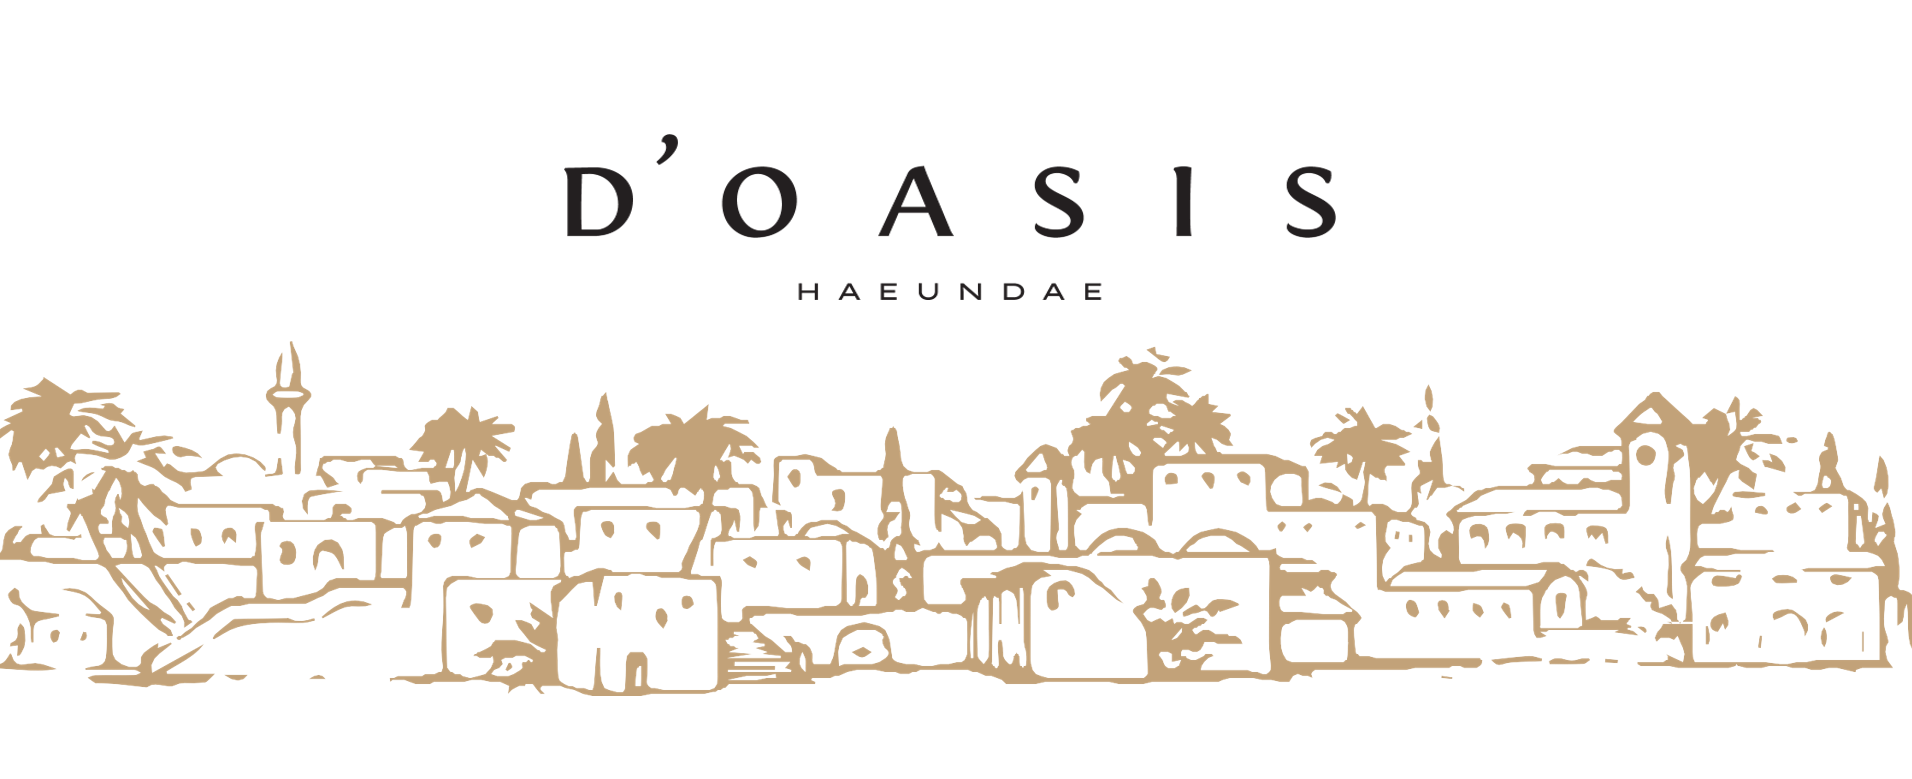
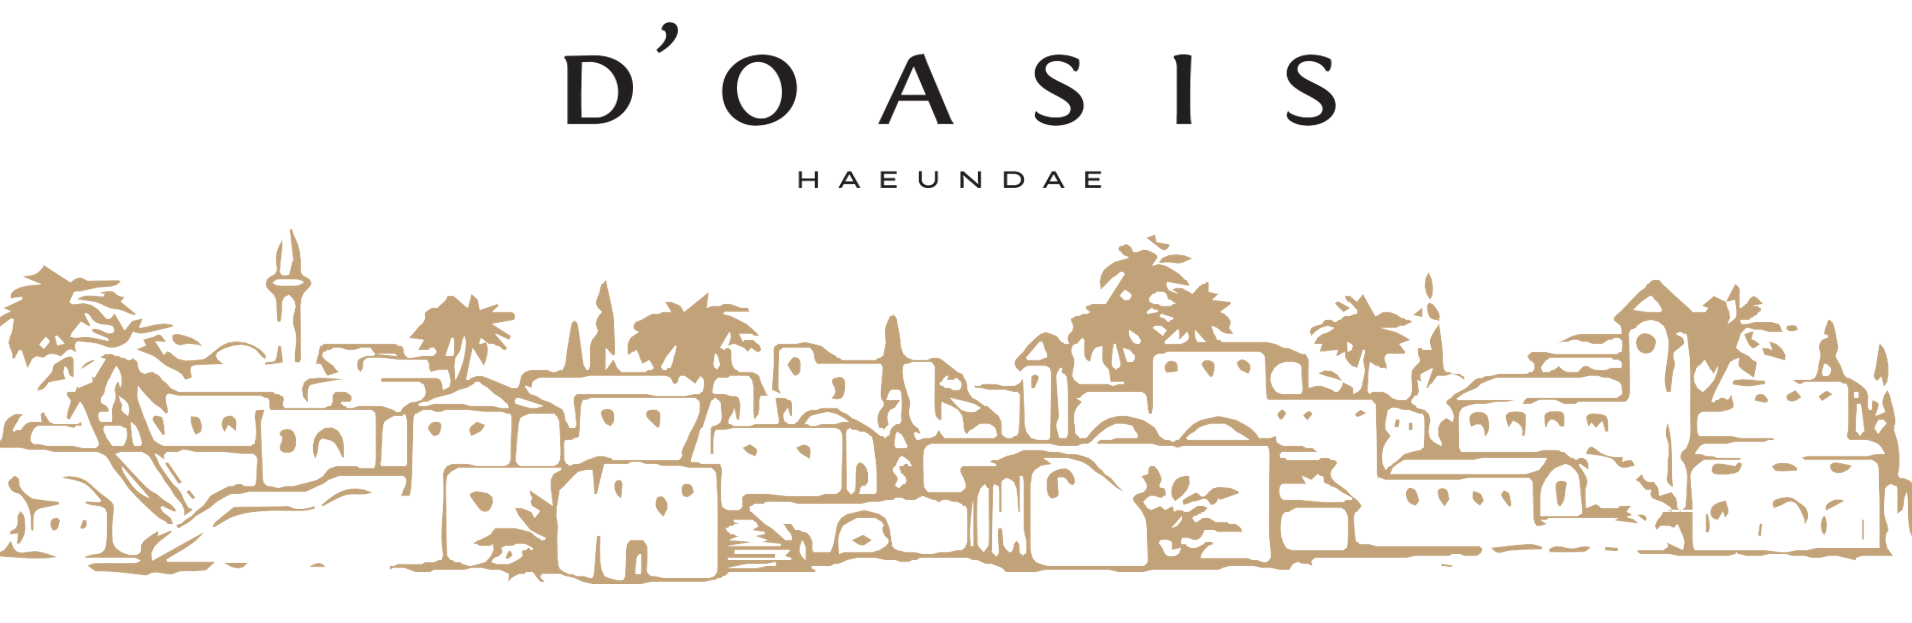
메인화면작업중

diff --git a/src/main/webapp/css/style.css b/src/main/webapp/css/style.css
@@ -41,7 +41,7 @@
 
 
 body {
-  font-family:'S-Core','Montserrat', 'Noto Sans KR', 'Noto Sans Korean', Malgun Gothic, "맑은고딕", arial, sans-serif;
+  font-family:'Montserrat','S-Core', 'Noto Sans KR', 'Noto Sans Korean', Malgun Gothic, "맑은고딕", arial, sans-serif;
   color: #555555;
 }
 .bold{font-weight:bold}
@@ -906,7 +906,7 @@ ul.nav.nav-pills-a{border-bottom:2px solid #d7d7d7}
 }
 .intro .carousel-item-a {
   position: relative;
-  height: 90vh;
+  height: 98vh;
 }/*메인화면 이미지 크기*/
  
 
@@ -1020,9 +1020,9 @@ ul.nav.nav-pills-a{border-bottom:2px solid #d7d7d7}
 
 @media (min-width: 992px) {
   .intro .intro-title {
-    font-size: 3.2rem;text-shadow: 1px 1px 1px #222;
+    font-size: 3.8rem;text-shadow: 1px 1px 1px #222;
     word-break: keep-all;
-      text-align:center
+      text-align:center;letter-spacing: -3px;
   }
 }
 
@@ -2568,7 +2568,7 @@ figure { margin: 0; }
     width: 100%;
     display: flex;
     padding: 22px 40px 22px 40px;
-    margin-top: 200px; }
+    margin-top: 15rem; }
   
 .container_date {
   width: 960px;
@@ -2721,8 +2721,150 @@ label {
 
 
 
+ /*파도*/ 
+.ocean { 
+  height: 5%;
+  width:100%;
+  position:absolute;
+  bottom:0;
+  left:0;
+  background: #015871;
+  z-index:999;
+}
+
+.wave {
+  background: url(https://s3-us-west-2.amazonaws.com/s.cdpn.io/85486/wave.svg) repeat-x; 
+  position: absolute;
+  top: -198px;
+  width: 6400px;
+  height: 198px;
+  animation: wave 7s cubic-bezier( 0.36, 0.45, 0.63, 0.53) infinite;
+  transform: translate3d(0, 0, 0);
+}
+
+.wave:nth-of-type(2) {
+  top: -175px;
+  animation: wave 7s cubic-bezier( 0.36, 0.45, 0.63, 0.53) -.125s infinite, swell 7s ease -1.25s infinite;
+  opacity: 1;
+}
+
+@keyframes wave {
+  0% {
+    margin-left: 0;
+  }
+  100% {
+    margin-left: -1600px;
+  }
+}
+
+@keyframes swell {
+  0%, 100% {
+    transform: translate3d(0,-25px,0);
+  }
+  50% {
+    transform: translate3d(0,5px,0);
+  }
+}
 
 
+
+
+
+
+
+
+
+@import url(//fonts.googleapis.com/css?family=Lato:300:400);
+
+
+.header_wave {
+  position:relative;
+  text-align:center;
+  color:white;
+}
+.logo {
+  width:50px;
+  fill:white;
+  padding-right:15px;
+  display:inline-block;
+  vertical-align: middle;
+}
+
+.inner-header {
+  height:65vh;
+  width:100%;
+  margin: 0;
+  padding: 0;
+}
+
+.flex { /*Flexbox for containers*/
+  display: flex;
+  justify-content: center;
+  align-items: center;
+  text-align: center;
+}
+
+.waves {
+  position:relative;
+  width: 100%;
+  height:15vh;
+  margin-bottom:-7px; /*Fix for safari gap*/
+  min-height:100px;
+  max-height:150px;
+/*       width: 1920px; */
+    z-index: 99999;
+    top: -54px;
+}
+
+.content {
+  position:relative;
+  height:20vh;
+  text-align:center;
+  background-color: white;
+}
+
+/* Animation */
+
+.parallax > use {
+  animation: move-forever 25s cubic-bezier(.55,.5,.45,.5)     infinite;
+}
+.parallax > use:nth-child(1) {
+  animation-delay: -2s;
+  animation-duration: 7s;
+}
+.parallax > use:nth-child(2) {
+  animation-delay: -3s;
+  animation-duration: 10s;
+}
+.parallax > use:nth-child(3) {
+  animation-delay: -4s;
+  animation-duration: 13s;
+}
+.parallax > use:nth-child(4) {
+  animation-delay: -5s;
+  animation-duration: 20s;
+}
+@keyframes move-forever {
+  0% {
+   transform: translate3d(-90px,0,0);
+  }
+  100% { 
+    transform: translate3d(85px,0,0);
+  }
+}
+/*Shrinking for mobile*/
+@media (max-width: 768px) {
+  .waves {
+    height:40px;
+    min-height:40px;
+  }
+  .content {
+    height:30vh;
+  }
+  h1 {
+    font-size:24px;
+  }
+}
 
 
 
